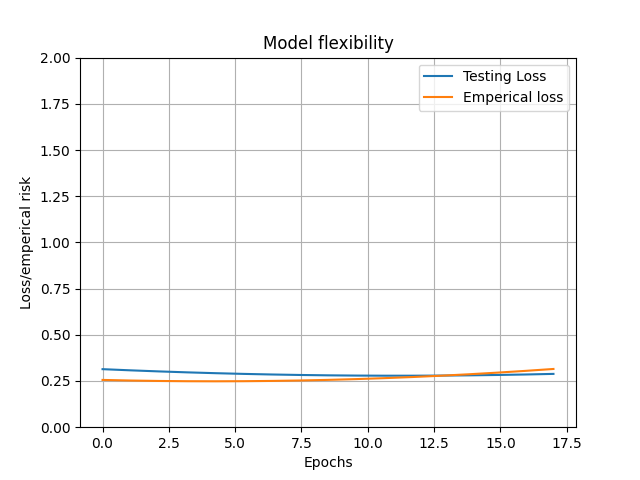
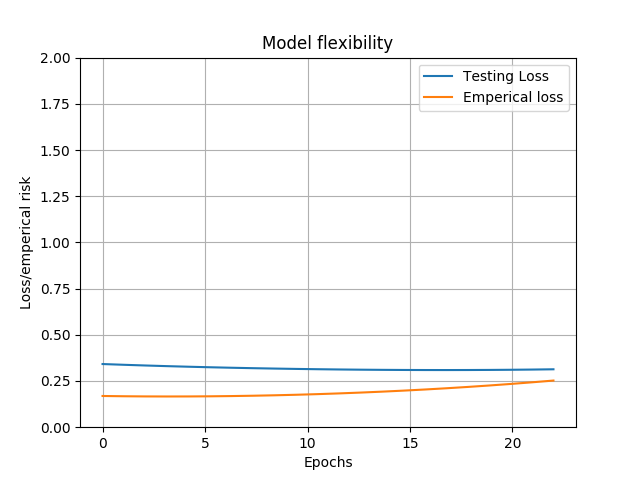
changed some last changes

diff --git a/rnnModel4.2.py b/rnnModel4.2.py
@@ -2,6 +2,7 @@ import numpy as np
 import csv
 import matplotlib.pyplot as plt
 from copy import deepcopy
+from scipy.special import expit, logit
 
 # The csv file containing the information of the song 'sunday' of U2 is transformed to a 464 by 2 matrix,
 # representing for each of the 464 timestamps the drum hits of two different drums. This matrix is used as
@@ -161,14 +162,15 @@ class RNN:
 
     # A method applies the sigmoid function.
     def sigmoid(self, x):
-        return 1 / (1 + np.exp(-x))
+        return(expit(x))
 
     # A method that returns the next hidden state, it applies the function x[n+1] = sigmoid(W*x[n] + Win*u[n+1] + b).
     def state(self, x, u, y):
         mulu = np.dot(self.Winput, u)
         mulx = np.dot(self.W, x)
         mulfb = np.dot(self.Wfb, y)
-        add = np.add(mulu, mulx, mulfb)
+        add = np.add(mulu, mulx)
+        add = np.add(add, mulfb)
         return np.array(self.sigmoid(np.add(add, self.b)))
 
     # A method that checks the loss given an input array and an output array representing the expected output with the
@@ -219,13 +221,12 @@ class RNN:
         dW = np.zeros(self.W.shape)
         dWfb = np.zeros(self.Wfb.shape)
 
-        delta_loss = 2 * (abs(yHat - Y))
-        delta_loss = np.array(delta_loss)
-
         for t in range(len(Y))[::-1]:
-            dWout += np.outer(delta_loss[t], x[t])
-            delta_t = np.dot(np.transpose(self.Woutput), delta_loss[t])
-            #delta_t *= self.sigmoidPrime(x[t]) # we doen hier toch * want dot ging fout (is een getal niet een vector)
+            delta_loss = np.array(2 * (abs(yHat[t] - Y[t])))
+            dWout += np.outer(delta_loss, x[t])
+            delta_t = np.dot(np.transpose(self.Woutput), delta_loss)
+            #dWfb += np.outer(delta_loss, yHat[t])
+            delta_t = delta_t * self.sigmoidPrime(x[t])
 
             maximum = max(0, t-self.bptt_truncate)
             for timestep in np.arange(max(0, t-self.bptt_truncate), t+1)[::-1]:
@@ -238,6 +239,9 @@ class RNN:
             dW /= (t+1-maximum)
             dWin /= (t+1-maximum)
             dWfb /= (t+1-maximum)
+            #dW = np.outer(delta_t, dW)
+            #print(dW.shape)
+
 
         dWin /= len(Y)
         dW /= len(Y)
@@ -246,7 +250,7 @@ class RNN:
         return dWin, dW, dWout, dWfb
 
     # A method that updates the weight matrices.
-    def updateWeights(self, dWin, dW, dWout, dWfb, Y):
+    def updateWeights(self, dWin, dW, dWout, Y, dWfb):
         # Preventing from exploding gradient problem:
         if dWin.max() > self.max_clip_value:
             dWin[dWin > self.max_clip_value] = self.max_clip_value
@@ -267,10 +271,10 @@ class RNN:
             dWfb[dWfb < self.min_clip_value] = self.min_clip_value
 
         # Updates the weights with the gradients and applies the ridge regression:
-        self.Winput = self.Winput - self.learning_rate * dWin - 2 * self.alfa * (self.Winput / len(Y))
-        self.W = self.W - self.learning_rate * dW - 2 * self.alfa * (self.W / len(Y))
-        self.Woutput = self.Woutput - self.learning_rate * dWout - 2 * self.alfa * (self.Woutput / len(Y))
-        self.Wfb = self.Wfb - self.learning_rate * dWfb - 2 * self.alfa * (self.Wfb / len(Y))
+        self.Winput = self.Winput - (self.learning_rate * dWin + 2 * self.alfa * (self.Winput / len(Y)))
+        self.W = self.W - (self.learning_rate * dW + 2 * self.alfa * (self.W / len(Y)))
+        self.Woutput = self.Woutput - (self.learning_rate * dWout + 2 * self.alfa * (self.Woutput / len(Y)))
+        self.Wfb = self.Wfb - (self.learning_rate * dWfb + 2 * self.alfa * (self.Wfb / len(Y)))
 
     # A method that trains the recurrent neural network by performing the forward pass and the truncated backpropagation
     # through time and that updates the weight matrices.
@@ -278,7 +282,7 @@ class RNN:
         x = np.zeros((self.hidden_size, 1))
         yHat, hidden_states = self.forward(U, x, Y)
         dWin, dW, dWout, dWfb = self.backprop(yHat, U, hidden_states, Y)
-        self.updateWeights(dWin, dW, dWout, dWfb, Y)
+        self.updateWeights(dWin, dW, dWout, Y, dWfb)
 
     # A method that computes an output array with a prime array.
     def prediction(self, U, Y):
@@ -348,7 +352,7 @@ for i in range(5):
 
 testLosses = np.reshape(testLosses, (len(testLosses)))
 trainingLosses = np.reshape(trainingLosses, (len(trainingLosses)))
-#plot_losses(testLosses, trainingLosses, n)
+plot_losses(testLosses, trainingLosses, n)
 
 # The actual training of the recurrent neural network with the right number of epochs.
 for i in range(epoch):
